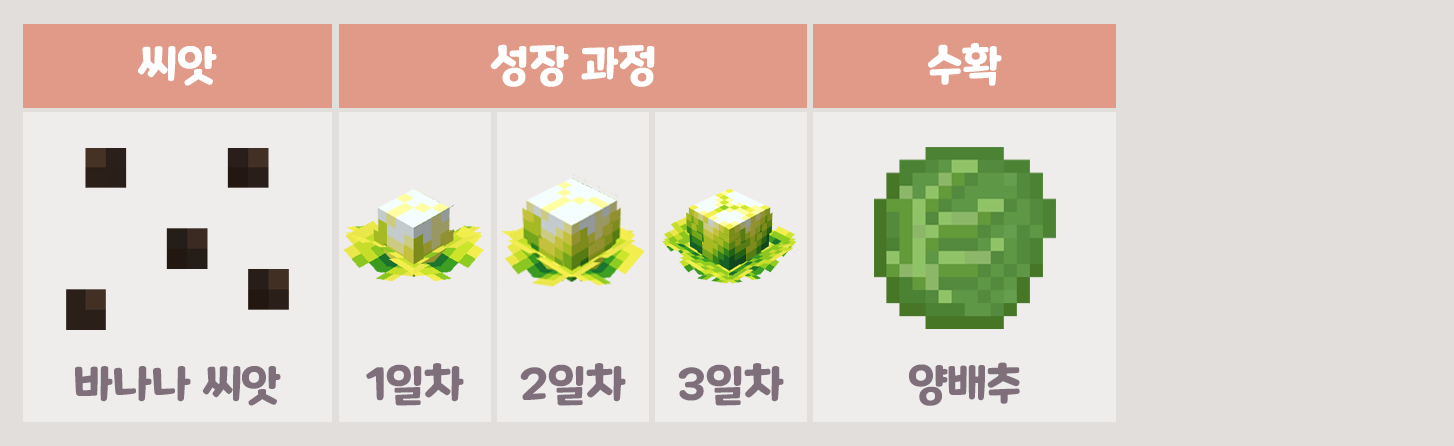
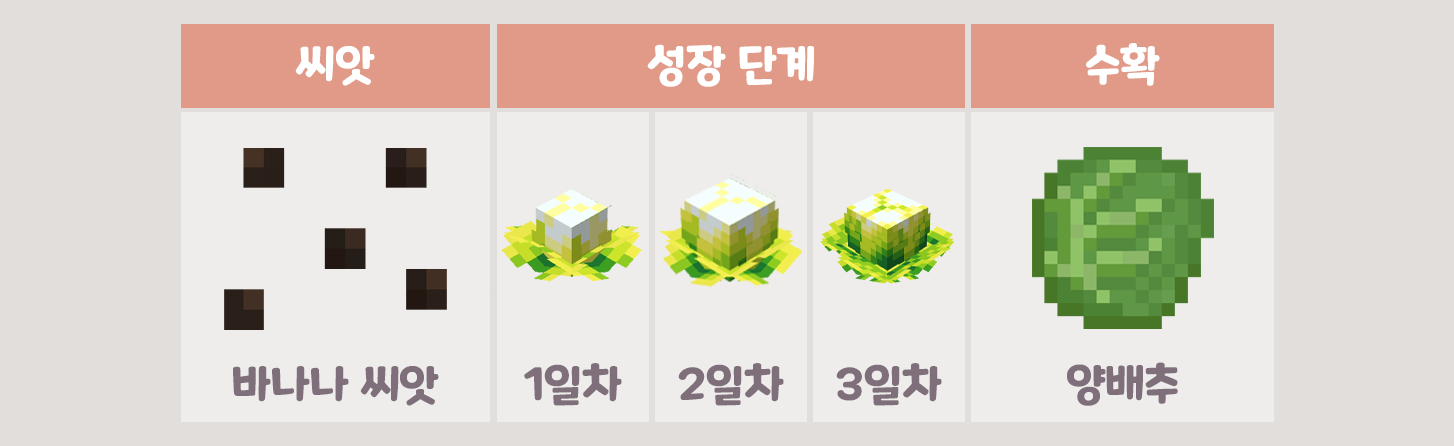
GITBOOK-61: change request with no subject merged in GitBook

diff --git a/contents/undefined.md b/contents/undefined.md
@@ -14,8 +14,8 @@ description: 다양한 작물들을 만나보세요!
 
 > 🍇 농작물의 종류
 
-<figure><img src="../.gitbook/assets/바나나.png" alt=""><figcaption><p>바나나의 성장 과정</p></figcaption></figure>
+<figure><img src="../.gitbook/assets/바나나.png" alt=""><figcaption><p>바나나의 성장 단계</p></figcaption></figure>
 
-<figure><img src="../.gitbook/assets/양배추.png" alt=""><figcaption><p>양배추의 성장 과정</p></figcaption></figure>
+<figure><img src="../.gitbook/assets/양배추.png" alt=""><figcaption><p>양배추의 성장 단계</p></figcaption></figure>
 
 > 🌱 뉴작물 기르는 법
